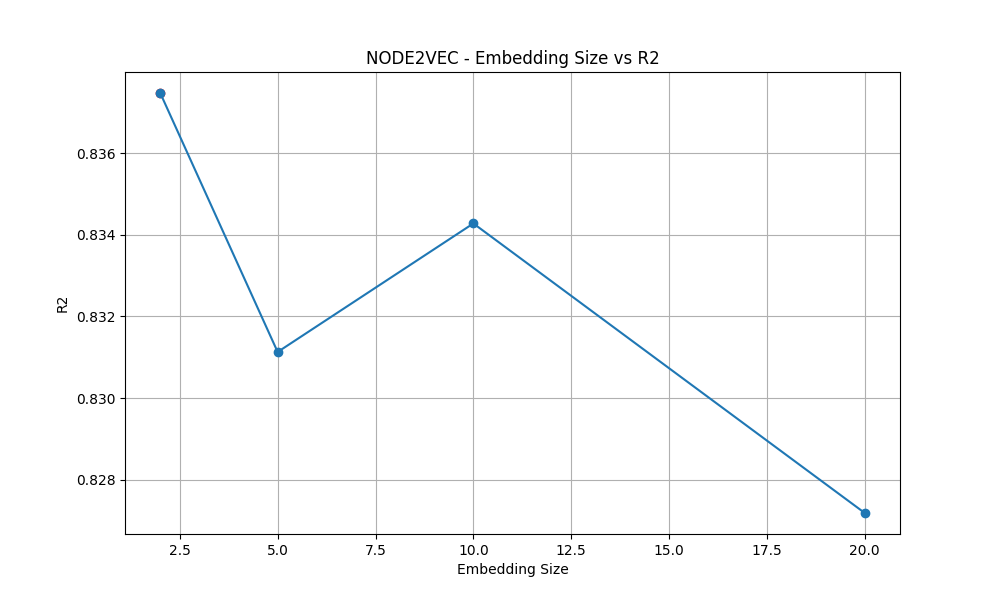
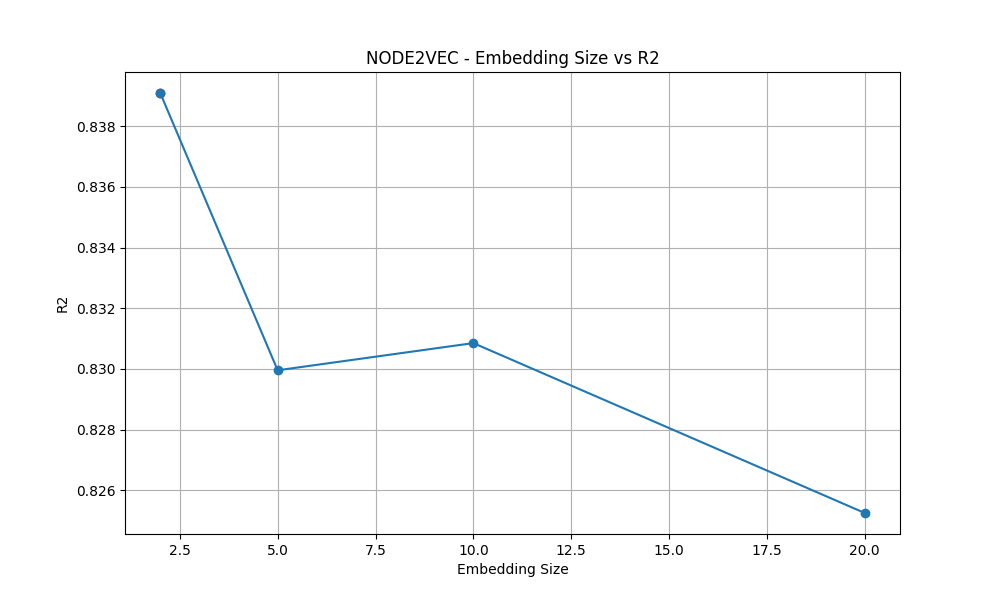
Run MHD --num-walks 80 --walk-length 15 --p 3 --q 1

diff --git a/utils.py b/utils.py
@@ -86,10 +86,10 @@ def create_graph_from_dataframe(df, numeric_features, distance_threshold=4000):
 
     # Define a function to compute edge weight  
     def calculate_weight(df, idx1, idx2):  
-        # if 'type' in df.columns:
-        #     # no edge if the types are different in MHD dataset
-        #     if df.loc[idx1, 'type'] != df.loc[idx2, 'type']:
-        #         return 0
+        if 'type' in df.columns:
+            # no edge if the types are different in MHD dataset
+            if df.loc[idx1, 'type'] != df.loc[idx2, 'type']:
+                return 0
         geo_distance = np.linalg.norm(coordinates[idx1] - coordinates[idx2])  
         # num_distance = np.linalg.norm(df.loc[idx1, numeric_features] - df.loc[idx2, numeric_features])  
         # binary_similarity = np.sum(df.loc[idx1, binary_features] == df.loc[idx2, binary_features])   

diff --git a/main_hpp.py b/main_hpp.py
@@ -111,8 +111,8 @@ if __name__ == "__main__":
     parser.add_argument("--dataset", type=str, required=True, help="Dataset name: CA or MHD")
     parser.add_argument("--num-walks", type=int, default=80)
     parser.add_argument("--walk-length", type=int, default=10)
-    parser.add_argument("--p", type=float, default=3)
-    parser.add_argument("--q", type=float, default=1)
+    parser.add_argument("--p", type=int, default=3)
+    parser.add_argument("--q", type=int, default=1)
     parser.add_argument("--embedding_sizes", nargs="+", type=int, default=[8, 16, 32, 64],
                         help="List of embedding sizes to try for grid search")
     args = parser.parse_args()
